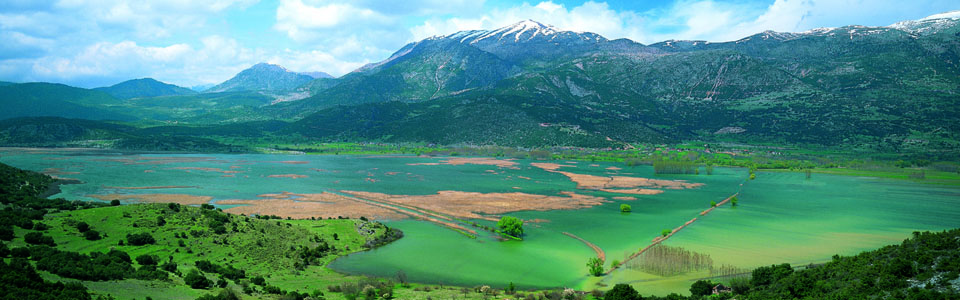
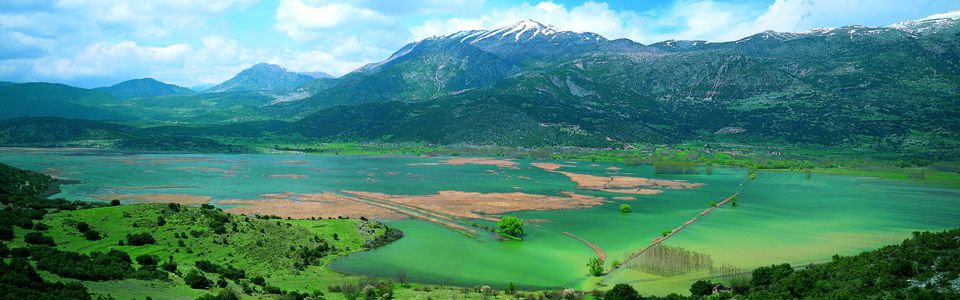
Compressed images
Compressed all the images for faster loading.

diff --git a/first-article.html b/first-article.html
@@ -23,14 +23,14 @@
                         <p>
                             Quis pariatur ut laborum esse veniam tempor anim adipisicing dolor minim eiusmod. Excepteur voluptate labore ut sit occaecat ex amet excepteur consectetur non culpa dolor consectetur. Aute voluptate do adipisicing amet. Cillum non fugiat enim ad.
                         </p>
-                        <img src="images/gallery/natural-1.jpeg" alt="Natural Scene" class="thumbnailed">
-                        <img src="images/gallery/natural-2.jpeg" alt="Natural Scene" class="thumbnailed">
-                        <img src="images/gallery/natural-3.jpeg" alt="Natural Scene" class="thumbnailed">
-                        <img src="images/gallery/natural-4.jpeg" alt="Natural Scene" class="thumbnailed">
-                        <img src="images/gallery/natural-5.jpeg" alt="Natural Scene" class="thumbnailed">
-                        <img src="images/gallery/natural-6.jpeg" alt="Natural Scene" class="thumbnailed">
-                        <img src="images/gallery/natural-7.jpeg" alt="Natural Scene" class="thumbnailed">
-                        <img src="images/gallery/natural-8.jpeg" alt="Natural Scene" class="thumbnailed">
+                        <img src="images/gallery/natural-1.jpg" alt="Natural Scene" class="thumbnailed">
+                        <img src="images/gallery/natural-2.jpg" alt="Natural Scene" class="thumbnailed">
+                        <img src="images/gallery/natural-3.jpg" alt="Natural Scene" class="thumbnailed">
+                        <img src="images/gallery/natural-4.jpg" alt="Natural Scene" class="thumbnailed">
+                        <img src="images/gallery/natural-5.jpg" alt="Natural Scene" class="thumbnailed">
+                        <img src="images/gallery/natural-6.jpg" alt="Natural Scene" class="thumbnailed">
+                        <img src="images/gallery/natural-7.jpg" alt="Natural Scene" class="thumbnailed">
+                        <img src="images/gallery/natural-8.jpg" alt="Natural Scene" class="thumbnailed">
                         <p>
                             Lorem irure in ipsum dolore Lorem consectetur duis incididunt aliquip deserunt laboris et exercitation anim. Exercitation ex consectetur dolor adipisicing culpa. Incididunt minim ex incididunt consequat exercitation non consectetur anim proident voluptate sunt. Lorem adipisicing deserunt veniam tempor esse minim dolor. Anim deserunt consequat est exercitation do. Ipsum et minim do deserunt minim aliqua aliquip laborum mollit.
                         </p>
